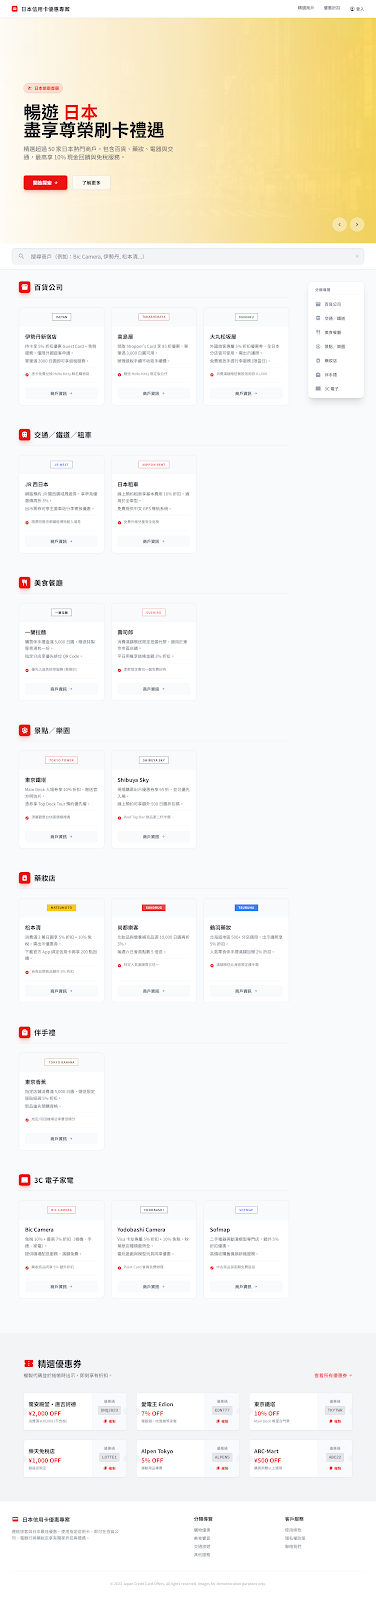
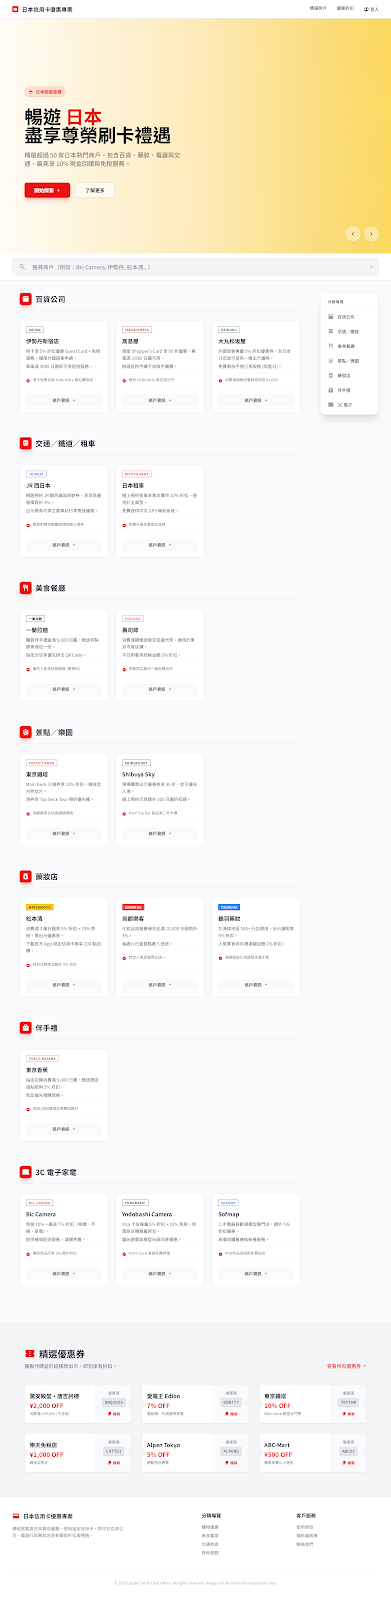
Add files via upload

diff --git a/code.html b/code.html
@@ -151,17 +151,15 @@
 <main class="flex-1 w-full pb-20 relative z-10 order-1" id="merchants">
 <div class="px-6 md:px-10 py-10 max-w-[1000px] mx-auto">
 <div class="category-section mb-20 scroll-mt-40" id="cat-dept">
-<div class="flex items-center gap-3 mb-8 border-b border-gray-200 pb-4 sticky top-24 bg-gray-50/0 z-0">
+<div class="flex items-center gap-3 mb-8 border-b border-gray-200 pb-4">
 <span class="flex items-center justify-center w-10 h-10 rounded-lg bg-primary text-white material-symbols-outlined shadow-lg shadow-red-500/30">storefront</span>
 <h3 class="text-2xl font-bold text-gray-900 tracking-wide">百貨公司</h3>
 </div>
 <div class="grid grid-cols-1 md:grid-cols-2 lg:grid-cols-3 gap-6">
 <div class="merchant-card flex flex-col bg-white rounded-xl overflow-hidden border border-gray-200 hover:border-primary/50 hover:translate-y-[-4px] hover:shadow-xl transition-all duration-300 h-full group">
-<div class="h-16 bg-gray-50 flex items-center justify-center border-b border-gray-100">
-<div class="border border-black px-3 py-1 font-bold text-black text-[10px] bg-white shadow-sm tracking-widest">ISETAN</div>
-</div>
 <div class="p-5 flex flex-col flex-1 gap-4">
 <div>
+<div class="border border-black px-2 py-0.5 font-bold text-black text-[10px] bg-white shadow-sm tracking-widest w-fit mb-3 rounded-sm">ISETAN</div>
 <h4 class="text-gray-900 text-lg font-bold mb-2">伊勢丹新宿店</h4>
 <p class="text-gray-600 text-sm leading-relaxed">持卡享 5% 折扣優惠 Guest Card + 免稅服務。僅限外國遊客申請。</p>
 <p class="text-gray-600 text-sm leading-relaxed mt-1">單筆滿 3000 日圓即可享退稅服務。</p>
@@ -178,11 +176,9 @@
 </div>
 </div>
 <div class="merchant-card flex flex-col bg-white rounded-xl overflow-hidden border border-gray-200 hover:border-primary/50 hover:translate-y-[-4px] hover:shadow-xl transition-all duration-300 h-full group">
-<div class="h-16 bg-gray-50 flex items-center justify-center border-b border-gray-100">
-<div class="border border-red-700 text-red-700 px-3 py-1 font-bold text-[10px] bg-white text-center leading-tight shadow-sm tracking-widest">TAKASHIMAYA</div>
-</div>
 <div class="p-5 flex flex-col flex-1 gap-4">
 <div>
+<div class="border border-red-700 text-red-700 px-2 py-0.5 font-bold text-[10px] bg-white shadow-sm tracking-widest w-fit mb-3 rounded-sm">TAKASHIMAYA</div>
 <h4 class="text-gray-900 text-lg font-bold mb-2">高島屋</h4>
 <p class="text-gray-600 text-sm leading-relaxed">領取 Shopper's Card 享 95 折優惠，單筆滿 3,000 日圓可用。</p>
 <p class="text-gray-600 text-sm leading-relaxed mt-1">辦理退稅手續不收取手續費。</p>
@@ -199,11 +195,9 @@
 </div>
 </div>
 <div class="merchant-card flex flex-col bg-white rounded-xl overflow-hidden border border-gray-200 hover:border-primary/50 hover:translate-y-[-4px] hover:shadow-xl transition-all duration-300 h-full group">
-<div class="h-16 bg-gray-50 flex items-center justify-center border-b border-gray-100">
-<div class="border border-green-800 text-green-800 px-3 py-1 font-bold text-[10px] bg-white shadow-sm tracking-widest">DAIMARU</div>
-</div>
 <div class="p-5 flex flex-col flex-1 gap-4">
 <div>
+<div class="border border-green-800 text-green-800 px-2 py-0.5 font-bold text-[10px] bg-white shadow-sm tracking-widest w-fit mb-3 rounded-sm">DAIMARU</div>
 <h4 class="text-gray-900 text-lg font-bold mb-2">大丸松坂屋</h4>
 <p class="text-gray-600 text-sm leading-relaxed">外國旅客專屬 5% 折扣優惠券，全日本分店皆可使用，需出示護照。</p>
 <p class="text-gray-600 text-sm leading-relaxed mt-1">免費寄放手提行李服務 (限當日)。</p>
@@ -228,11 +222,9 @@
 </div>
 <div class="grid grid-cols-1 md:grid-cols-2 lg:grid-cols-3 gap-6">
 <div class="merchant-card flex flex-col bg-white rounded-xl overflow-hidden border border-gray-200 hover:border-primary/50 hover:translate-y-[-4px] hover:shadow-xl transition-all duration-300 h-full group">
-<div class="h-16 bg-gray-50 flex items-center justify-center border-b border-gray-100">
-<div class="border border-blue-600 text-blue-600 px-3 py-1 font-bold text-[10px] bg-white shadow-sm tracking-widest">JR WEST</div>
-</div>
 <div class="p-5 flex flex-col flex-1 gap-4">
 <div>
+<div class="border border-blue-600 text-blue-600 px-2 py-0.5 font-bold text-[10px] bg-white shadow-sm tracking-widest w-fit mb-3 rounded-sm">JR WEST</div>
 <h4 class="text-gray-900 text-lg font-bold mb-2">JR 西日本</h4>
 <p class="text-gray-600 text-sm leading-relaxed">網路預約 JR 關西廣域周遊券，享早鳥優惠價再折 3%。</p>
 <p class="text-gray-600 text-sm leading-relaxed mt-1">出示票券可享主要車站行李寄放優惠。</p>
@@ -249,11 +241,9 @@
 </div>
 </div>
 <div class="merchant-card flex flex-col bg-white rounded-xl overflow-hidden border border-gray-200 hover:border-primary/50 hover:translate-y-[-4px] hover:shadow-xl transition-all duration-300 h-full group">
-<div class="h-16 bg-gray-50 flex items-center justify-center border-b border-gray-100">
-<div class="border border-red-600 text-red-600 px-3 py-1 font-bold text-[10px] bg-white shadow-sm text-center tracking-widest">NIPPON RENT</div>
-</div>
 <div class="p-5 flex flex-col flex-1 gap-4">
 <div>
+<div class="border border-red-600 text-red-600 px-2 py-0.5 font-bold text-[10px] bg-white shadow-sm tracking-widest w-fit mb-3 rounded-sm">NIPPON RENT</div>
 <h4 class="text-gray-900 text-lg font-bold mb-2">日本租車</h4>
 <p class="text-gray-600 text-sm leading-relaxed">線上預約租車享基本費用 10% 折扣，適用於全車型。</p>
 <p class="text-gray-600 text-sm leading-relaxed mt-1">免費提供中文 GPS 導航系統。</p>
@@ -278,11 +268,9 @@
 </div>
 <div class="grid grid-cols-1 md:grid-cols-2 lg:grid-cols-3 gap-6">
 <div class="merchant-card flex flex-col bg-white rounded-xl overflow-hidden border border-gray-200 hover:border-primary/50 hover:translate-y-[-4px] hover:shadow-xl transition-all duration-300 h-full group">
-<div class="h-16 bg-gray-50 flex items-center justify-center border-b border-gray-100">
-<div class="border border-black text-black px-3 py-1 font-bold text-[10px] bg-white shadow-sm tracking-widest">一蘭拉麵</div>
-</div>
 <div class="p-5 flex flex-col flex-1 gap-4">
 <div>
+<div class="border border-black text-black px-2 py-0.5 font-bold text-[10px] bg-white shadow-sm tracking-widest w-fit mb-3 rounded-sm">一蘭拉麵</div>
 <h4 class="text-gray-900 text-lg font-bold mb-2">一蘭拉麵</h4>
 <p class="text-gray-600 text-sm leading-relaxed">購買伴手禮盒滿 5,000 日圓，贈送特製豚骨湯包一份。</p>
 <p class="text-gray-600 text-sm leading-relaxed mt-1">指定分店享優先排位 QR Code。</p>
@@ -299,11 +287,9 @@
 </div>
 </div>
 <div class="merchant-card flex flex-col bg-white rounded-xl overflow-hidden border border-gray-200 hover:border-primary/50 hover:translate-y-[-4px] hover:shadow-xl transition-all duration-300 h-full group">
-<div class="h-16 bg-gray-50 flex items-center justify-center border-b border-gray-100">
-<div class="border border-red-500 text-red-500 px-3 py-1 font-bold text-[10px] bg-white shadow-sm tracking-widest">SUSHIRO</div>
-</div>
 <div class="p-5 flex flex-col flex-1 gap-4">
 <div>
+<div class="border border-red-500 text-red-500 px-2 py-0.5 font-bold text-[10px] bg-white shadow-sm tracking-widest w-fit mb-3 rounded-sm">SUSHIRO</div>
 <h4 class="text-gray-900 text-lg font-bold mb-2">壽司郎</h4>
 <p class="text-gray-600 text-sm leading-relaxed">消費滿額贈送限定扭蛋代幣，適用於東京市區店鋪。</p>
 <p class="text-gray-600 text-sm leading-relaxed mt-1">平日用餐享結帳金額 3% 折扣。</p>
@@ -328,11 +314,9 @@
 </div>
 <div class="grid grid-cols-1 md:grid-cols-2 lg:grid-cols-3 gap-6">
 <div class="merchant-card flex flex-col bg-white rounded-xl overflow-hidden border border-gray-200 hover:border-primary/50 hover:translate-y-[-4px] hover:shadow-xl transition-all duration-300 h-full group">
-<div class="h-16 bg-gray-50 flex items-center justify-center border-b border-gray-100">
-<div class="border border-red-600 text-red-600 px-3 py-1 font-bold text-[10px] bg-white shadow-sm text-center tracking-widest">TOKYO TOWER</div>
-</div>
 <div class="p-5 flex flex-col flex-1 gap-4">
 <div>
+<div class="border border-red-600 text-red-600 px-2 py-0.5 font-bold text-[10px] bg-white shadow-sm tracking-widest w-fit mb-3 rounded-sm">TOKYO TOWER</div>
 <h4 class="text-gray-900 text-lg font-bold mb-2">東京鐵塔</h4>
 <p class="text-gray-600 text-sm leading-relaxed">Main Deck 入場券享 10% 折扣，贈送官方明信片。</p>
 <p class="text-gray-600 text-sm leading-relaxed mt-1">憑券享 Top Deck Tour 預約優先權。</p>
@@ -349,11 +333,9 @@
 </div>
 </div>
 <div class="merchant-card flex flex-col bg-white rounded-xl overflow-hidden border border-gray-200 hover:border-primary/50 hover:translate-y-[-4px] hover:shadow-xl transition-all duration-300 h-full group">
-<div class="h-16 bg-gray-50 flex items-center justify-center border-b border-gray-100">
-<div class="border border-black text-black px-3 py-1 font-bold text-[10px] bg-white shadow-sm text-center tracking-widest">SHIBUYA SKY</div>
-</div>
 <div class="p-5 flex flex-col flex-1 gap-4">
 <div>
+<div class="border border-black text-black px-2 py-0.5 font-bold text-[10px] bg-white shadow-sm tracking-widest w-fit mb-3 rounded-sm">SHIBUYA SKY</div>
 <h4 class="text-gray-900 text-lg font-bold mb-2">Shibuya Sky</h4>
 <p class="text-gray-600 text-sm leading-relaxed">現場購票出示優惠券享 95 折，並可優先入場。</p>
 <p class="text-gray-600 text-sm leading-relaxed mt-1">線上預約可享額外 500 日圓折扣碼。</p>
@@ -378,11 +360,9 @@
 </div>
 <div class="grid grid-cols-1 md:grid-cols-2 lg:grid-cols-3 gap-6">
 <div class="merchant-card flex flex-col bg-white rounded-xl overflow-hidden border border-gray-200 hover:border-primary/50 hover:translate-y-[-4px] hover:shadow-xl transition-all duration-300 h-full group">
-<div class="h-16 bg-gray-50 flex items-center justify-center border-b border-gray-100">
-<div class="border border-yellow-500 px-3 py-1 font-bold text-black text-[10px] bg-yellow-400 text-center leading-tight shadow-sm tracking-widest">MATSUMOTO</div>
-</div>
 <div class="p-5 flex flex-col flex-1 gap-4">
 <div>
+<div class="border border-yellow-500 px-2 py-0.5 font-bold text-black text-[10px] bg-yellow-400 shadow-sm tracking-widest w-fit mb-3 rounded-sm">MATSUMOTO</div>
 <h4 class="text-gray-900 text-lg font-bold mb-2">松本清</h4>
 <p class="text-gray-600 text-sm leading-relaxed">消費滿 3 萬日圓享 5% 折扣 + 10% 免稅。需出示優惠券。</p>
 <p class="text-gray-600 text-sm leading-relaxed mt-1">下載官方 App 綁定信用卡再享 200 點回饋。</p>
@@ -399,11 +379,9 @@
 </div>
 </div>
 <div class="merchant-card flex flex-col bg-white rounded-xl overflow-hidden border border-gray-200 hover:border-primary/50 hover:translate-y-[-4px] hover:shadow-xl transition-all duration-300 h-full group">
-<div class="h-16 bg-gray-50 flex items-center justify-center border-b border-gray-100">
-<div class="border border-red-500 px-3 py-1 font-bold text-white text-[10px] bg-red-500 text-center leading-tight shadow-sm tracking-widest">SUNDRUG</div>
-</div>
 <div class="p-5 flex flex-col flex-1 gap-4">
 <div>
+<div class="border border-red-500 px-2 py-0.5 font-bold text-white text-[10px] bg-red-500 shadow-sm tracking-widest w-fit mb-3 rounded-sm">SUNDRUG</div>
 <h4 class="text-gray-900 text-lg font-bold mb-2">尚都樂客</h4>
 <p class="text-gray-600 text-sm leading-relaxed">化妝品與營養補充品滿 10,000 日圓再折 3%。</p>
 <p class="text-gray-600 text-sm leading-relaxed mt-1">每週六日會員點數 5 倍送。</p>
@@ -420,11 +398,9 @@
 </div>
 </div>
 <div class="merchant-card flex flex-col bg-white rounded-xl overflow-hidden border border-gray-200 hover:border-primary/50 hover:translate-y-[-4px] hover:shadow-xl transition-all duration-300 h-full group">
-<div class="h-16 bg-gray-50 flex items-center justify-center border-b border-gray-100">
-<div class="border border-blue-500 px-3 py-1 font-bold text-white text-[10px] bg-blue-500 text-center leading-tight shadow-sm tracking-widest">TSURUHA</div>
-</div>
 <div class="p-5 flex flex-col flex-1 gap-4">
 <div>
+<div class="border border-blue-500 px-2 py-0.5 font-bold text-white text-[10px] bg-blue-500 shadow-sm tracking-widest w-fit mb-3 rounded-sm">TSURUHA</div>
 <h4 class="text-gray-900 text-lg font-bold mb-2">鶴羽藥妝</h4>
 <p class="text-gray-600 text-sm leading-relaxed">北海道地區 500+ 分店適用，出示護照享 5% 折扣。</p>
 <p class="text-gray-600 text-sm leading-relaxed mt-1">人氣零食伴手禮滿額加贈 2% 折扣。</p>
@@ -449,11 +425,9 @@
 </div>
 <div class="grid grid-cols-1 md:grid-cols-2 lg:grid-cols-3 gap-6">
 <div class="merchant-card flex flex-col bg-white rounded-xl overflow-hidden border border-gray-200 hover:border-primary/50 hover:translate-y-[-4px] hover:shadow-xl transition-all duration-300 h-full group">
-<div class="h-16 bg-gray-50 flex items-center justify-center border-b border-gray-100">
-<div class="border border-yellow-600 text-yellow-800 px-3 py-1 font-bold text-[10px] bg-white shadow-sm text-center tracking-widest">TOKYO BANANA</div>
-</div>
 <div class="p-5 flex flex-col flex-1 gap-4">
 <div>
+<div class="border border-yellow-600 text-yellow-800 px-2 py-0.5 font-bold text-[10px] bg-white shadow-sm tracking-widest w-fit mb-3 rounded-sm">TOKYO BANANA</div>
 <h4 class="text-gray-900 text-lg font-bold mb-2">東京香蕉</h4>
 <p class="text-gray-600 text-sm leading-relaxed">指定店鋪消費滿 5,000 日圓，贈送限定版貼紙與 5% 折扣。</p>
 <p class="text-gray-600 text-sm leading-relaxed mt-1">新品搶先預購資格。</p>
@@ -478,11 +452,9 @@
 </div>
 <div class="grid grid-cols-1 md:grid-cols-2 lg:grid-cols-3 gap-6">
 <div class="merchant-card flex flex-col bg-white rounded-xl overflow-hidden border border-gray-200 hover:border-primary/50 hover:translate-y-[-4px] hover:shadow-xl transition-all duration-300 h-full group">
-<div class="h-16 bg-gray-50 flex items-center justify-center border-b border-gray-100">
-<div class="border border-red-600 px-3 py-1 font-bold text-red-600 text-[10px] bg-white shadow-sm tracking-widest">BIC CAMERA</div>
-</div>
 <div class="p-5 flex flex-col flex-1 gap-4">
 <div>
+<div class="border border-red-600 px-2 py-0.5 font-bold text-red-600 text-[10px] bg-white shadow-sm tracking-widest w-fit mb-3 rounded-sm">BIC CAMERA</div>
 <h4 class="text-gray-900 text-lg font-bold mb-2">Bic Camera</h4>
 <p class="text-gray-600 text-sm leading-relaxed">免稅 10% + 最高 7% 折扣（相機、手錶、家電）。</p>
 <p class="text-gray-600 text-sm leading-relaxed mt-1">提供機場配送服務，滿額免費。</p>
@@ -499,11 +471,9 @@
 </div>
 </div>
 <div class="merchant-card flex flex-col bg-white rounded-xl overflow-hidden border border-gray-200 hover:border-primary/50 hover:translate-y-[-4px] hover:shadow-xl transition-all duration-300 h-full group">
-<div class="h-16 bg-gray-50 flex items-center justify-center border-b border-gray-100">
-<div class="border border-black px-3 py-1 font-bold text-black text-[10px] bg-white text-center leading-tight shadow-sm tracking-widest">YODOBASHI</div>
-</div>
 <div class="p-5 flex flex-col flex-1 gap-4">
 <div>
+<div class="border border-black px-2 py-0.5 font-bold text-black text-[10px] bg-white shadow-sm tracking-widest w-fit mb-3 rounded-sm">YODOBASHI</div>
 <h4 class="text-gray-900 text-lg font-bold mb-2">Yodobashi Camera</h4>
 <p class="text-gray-600 text-sm leading-relaxed">Visa 卡友專屬 5% 折扣 + 10% 免稅。秋葉原店種類最齊全。</p>
 <p class="text-gray-600 text-sm leading-relaxed mt-1">電玩遊戲與模型玩具同享優惠。</p>
@@ -520,11 +490,9 @@
 </div>
 </div>
 <div class="merchant-card flex flex-col bg-white rounded-xl overflow-hidden border border-gray-200 hover:border-primary/50 hover:translate-y-[-4px] hover:shadow-xl transition-all duration-300 h-full group">
-<div class="h-16 bg-gray-50 flex items-center justify-center border-b border-gray-100">
-<div class="border border-blue-600 px-3 py-1 font-bold text-blue-600 text-[10px] bg-white shadow-sm tracking-widest">SOFMAP</div>
-</div>
 <div class="p-5 flex flex-col flex-1 gap-4">
 <div>
+<div class="border border-blue-600 px-2 py-0.5 font-bold text-blue-600 text-[10px] bg-white shadow-sm tracking-widest w-fit mb-3 rounded-sm">SOFMAP</div>
 <h4 class="text-gray-900 text-lg font-bold mb-2">Sofmap</h4>
 <p class="text-gray-600 text-sm leading-relaxed">二手電器與動漫模型專門店，額外 5% 折扣優惠。</p>
 <p class="text-gray-600 text-sm leading-relaxed mt-1">高價收購舊機換新機服務。</p>
@@ -795,4 +763,5 @@
         }
     });
 </script>
+
 </body></html>
